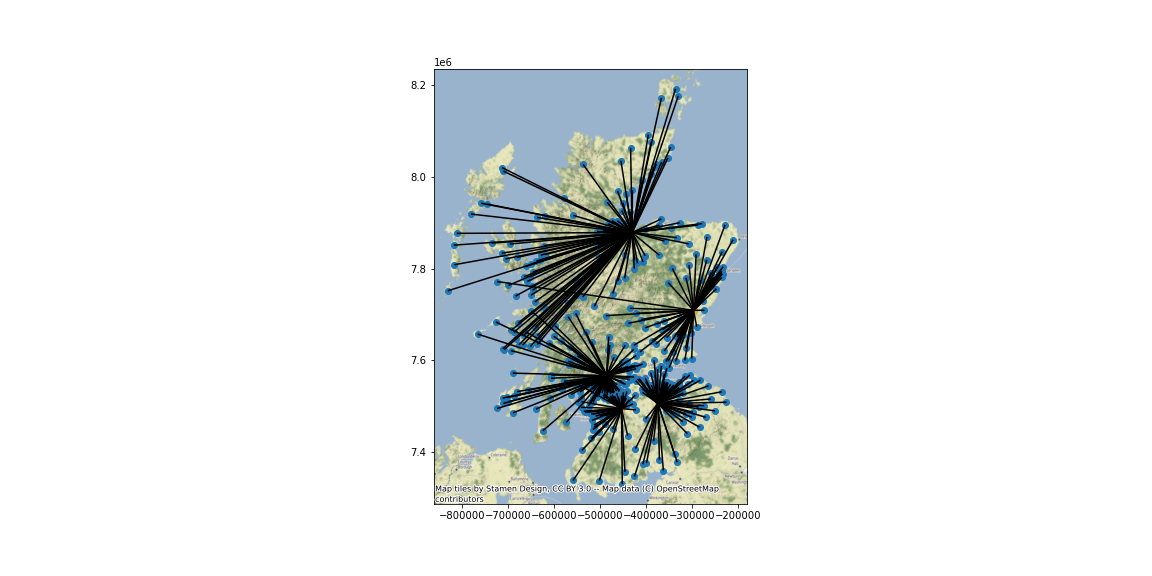
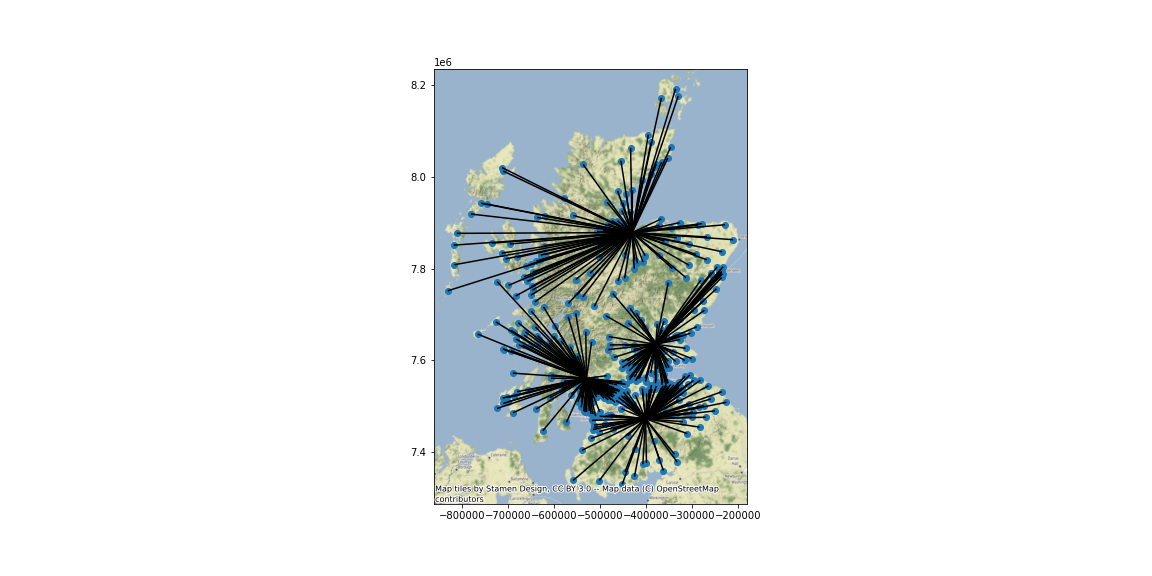
Changed the scale

Changed region(s): [[0.4062, 0.375, 0.6562, 0.8438]]

diff --git a/HaggisModel_nopenalty.py b/HaggisModel_nopenalty.py
@@ -113,11 +113,16 @@ class haggis_model:
         #         # self.mdl.add(self.mdl.sum(self.x[i_prime, j] for i_prime in self.network.candidates_index if \
         #         #         self.network.dis_districts_districts[i_prime, j] < self.network.dis_districts_districts[i, j]) + \
         #         #         self.y[i] <= 1 + self.U[j])
+        # for i in self.network.candidates_index:
+        #     for j in self.network.customers_index:
+        #         self.mdl.add(self.x[i, j] >= self.y[i] -
+        #                 self.mdl.sum(self.y[i_prime] for i_prime in self.network.candidates_index if \
+        #                 self.network.dis_districts_districts[i_prime, j] < self.network.dis_districts_districts[i, j]))
 
         self.total_cost = self.mdl.scal_prod(self.y, self.network.fixed_cost) + \
-                        self.time_horizon*0.001*self.network.cost_customers*self.mdl.sum(self.network.dis_districts_districts[i, j]*self.network.demand[j, t]*self.x[i, j] \
+                        self.time_horizon*0.001/1.6*self.network.cost_customers*self.mdl.sum(self.network.dis_districts_districts[i, j]*self.network.demand[j, t]*self.x[i, j] \
                         for i in self.network.candidates_index for j in self.network.customers_index for t in self.network.food_index) + \
-                        self.time_horizon*0.001*self.mdl.sum(self.network.cost_suppliers[k]*self.network.dis_suppliers_districts[i, k]*self.z[k, i] \
+                        self.time_horizon*0.001/1.6*self.mdl.sum(self.network.cost_suppliers[k]*self.network.dis_suppliers_districts[i, k]*self.z[k, i] \
                         for k in self.network.suppliers_index for i in self.network.candidates_index)
         # self.total_cost = self.mdl.scal_prod(self.y, self.network.fixed_cost) + \
         #                 self.time_horizon*0.001*self.network.cost_customers*self.mdl.sum(self.network.dis_districts_districts[i, j]*self.network.demand[j, t]*self.x[i, j] \
@@ -159,10 +164,10 @@ class haggis_model:
                 'best bound': [self.mdl.solve_details.best_bound],
                 'objective': [self.msol[self.total_cost]],
                 'Facility building cost': [sum([self.msol[self.y[i]]*self.network.fixed_cost[i] for i in self.network.candidates_index])],
-                'Transportation cost': [self.time_horizon*0.001*self.network.cost_customers*self.mdl.sum(self.network.dis_districts_districts[i, j]*\
+                'Transportation cost': [self.time_horizon*0.001/1.6*self.network.cost_customers*self.mdl.sum(self.network.dis_districts_districts[i, j]*\
                         self.network.demand[j, t]*self.msol[self.x[i, j]] for i in self.network.candidates_index \
                         for j in self.network.customers_index for t in self.network.food_index) + \
-                        self.time_horizon*0.001*self.mdl.sum(self.network.cost_suppliers[k]*self.network.dis_suppliers_districts[i, k]*self.msol[self.z[k, i]] \
+                        self.time_horizon*0.001/1.6*self.mdl.sum(self.network.cost_suppliers[k]*self.network.dis_suppliers_districts[i, k]*self.msol[self.z[k, i]] \
                         for k in self.network.suppliers_index for i in self.network.candidates_index)]})
                 #         for k in self.network.suppliers_index for i in self.network.candidates_index)],
                 # 'Penalty': [self.network.penalty*sum(self.msol[self.U[j]] for j in self.network.customers_index)]})

diff --git a/plot.py b/plot.py
@@ -104,7 +104,7 @@ def plot_map_lines(data, data_chosen, chosen, assign, save_name = 'plot_map_line
 #     log_data = f.read()
 # chosen = re.findall(r'Facility (.*?) open to serve customers: ', log_data)
 # chosen = [int(i) for i in chosen]
-with open('logs\log_2.txt') as f:
+with open('logs\log_3.txt') as f:
     log_data = f.read()
 chosen_assign = re.findall(r'Facility (.*?) open to serve customers: (.*?)\n', log_data)
 chosen = [int(item[0]) for item in chosen_assign]
